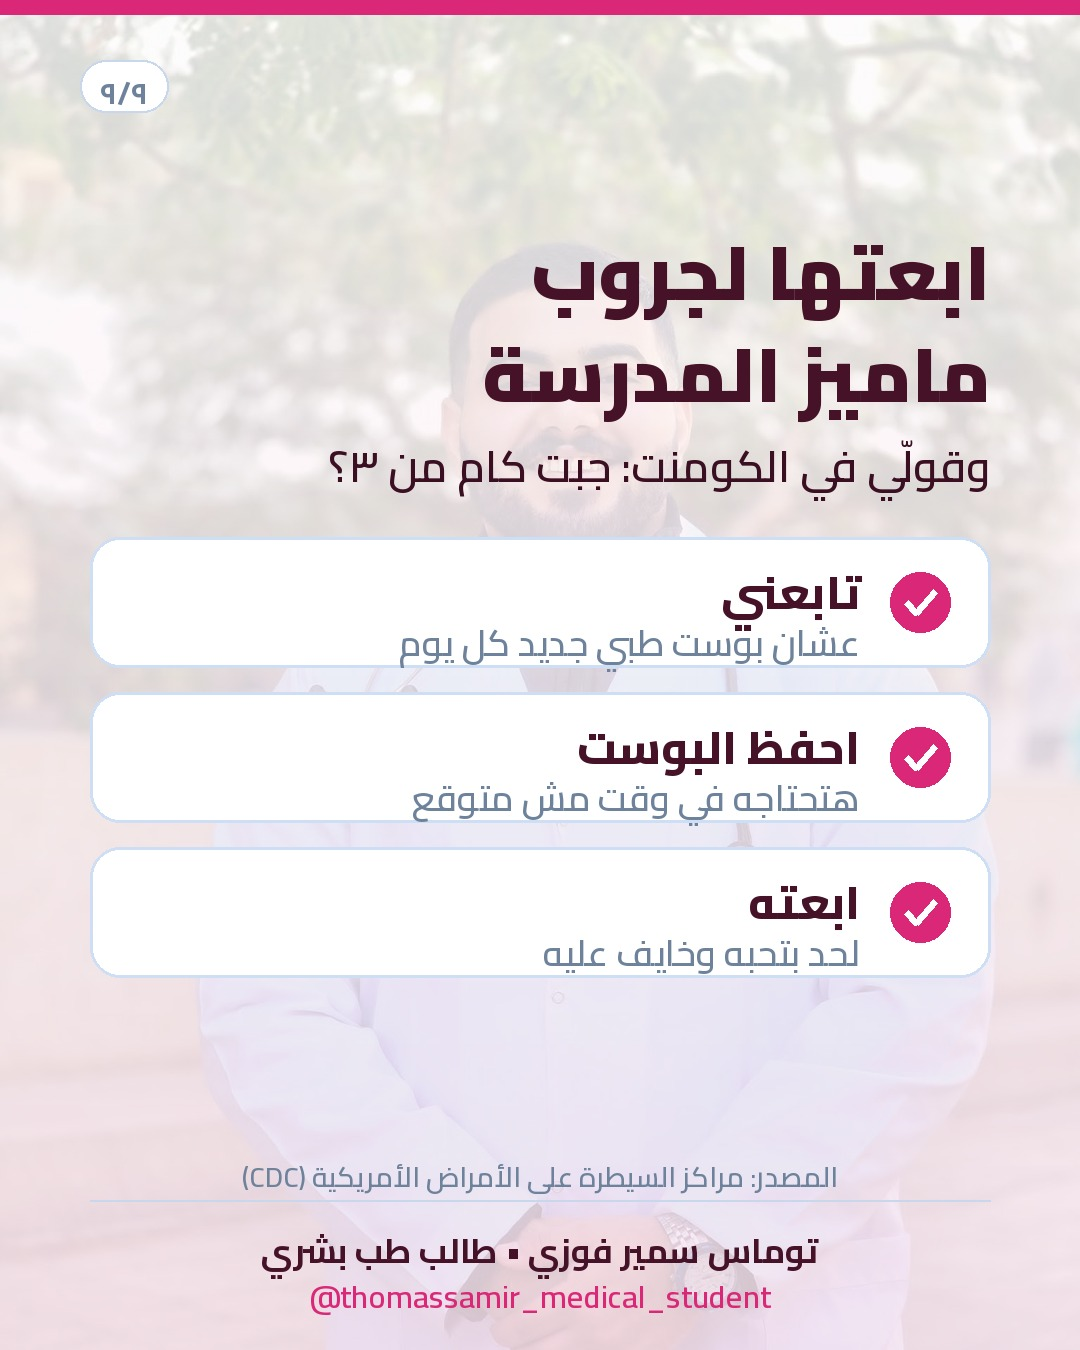
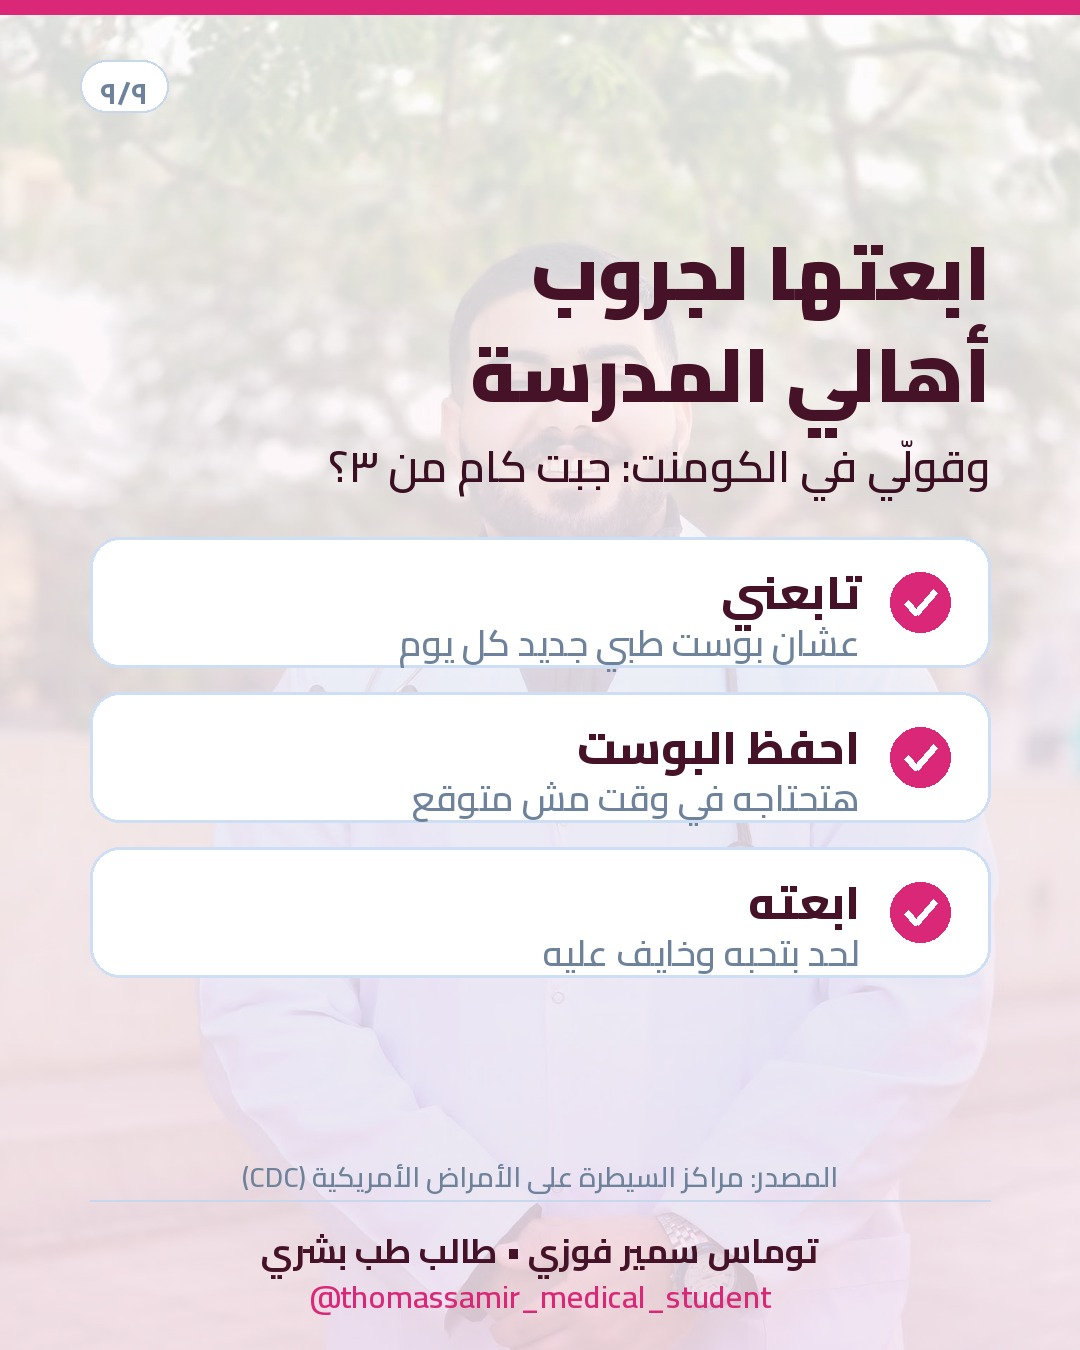
24-am: brand wording on CTA slide
Claude-Session: https://claude.ai/code/session_011NRRk6HfDg8mPQwZCf8MdB

Changed region(s): [[0.4278, 0.2178, 0.9167, 0.3422]]

diff --git a/topics.md b/topics.md
@@ -10,4 +10,4 @@
 - 2026-10-23-am | carousel | ٥ علامات للسكر بنفتكرها تعب عادي | red flags (numbered) | audience older | ig 11:00 / fb 10:00 | tone respectful حضرتك | theme ocean | source NHS | story: "العلامة رقم ٤ أغلبنا بيفرح بيها" | song: أنا لحبيبي (فيروز)
 - 2026-10-23-pm | carousel | ٦ عادات بتسرق نومك | mistakes + challenge hook | audience youth | ig 21:00 (experiment: night scroll) / fb 19:00 | tone sharp & witty | theme violet | source CDC + NHS | story: "العادة رقم ٥ عكس اللي كلنا فاكرينه" | song: البخت (ويجز)
 - 2026-10-24-am | carousel | قمل المدارس: ٣ أسئلة صح ولا غلط | quiz صح ولا غلط (repeat winner) | audience parents | ig 11:00 / fb 10:30 | tone calm, reassuring, no shame | theme rose | source CDC | story: "السؤال رقم ٢ أغلبنا بيجاوبه غلط" | song: تملي معاك (عمرو دياب)
-- 2026-10-24-pm | carousel | إجهاد العين من الشاشة: عندك كام علامة من ٤؟ | self-check + fix (experiment) | audience youth | ig 19:00 / fb 19:00 | tone sharp & smart | theme teal | source Mayo Clinic | story: "عندك كام علامة من ٤؟ جرّب تعدّ" | song: ماشي (ويجز)
+- 2026-10-24-pm | carousel | إجهاد العين من الشاشة: عندك كام علامة من ٤؟ | self-check + fix (experiment) | audience youth | ig 19:00 / fb 19:00 | tone sharp & smart | theme teal | source Mayo Clinic | story: "عندك كام علامة من ٤؟ جرّب تعدّ" | song: دورك جاي (ويجز)
